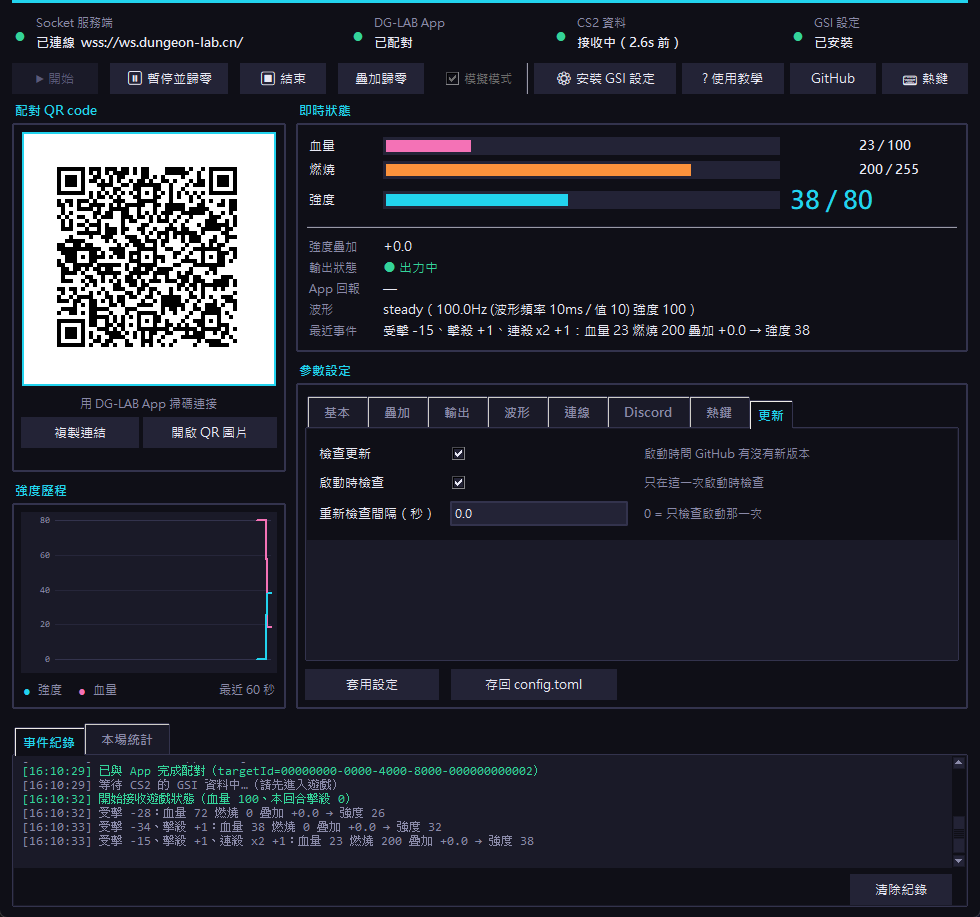
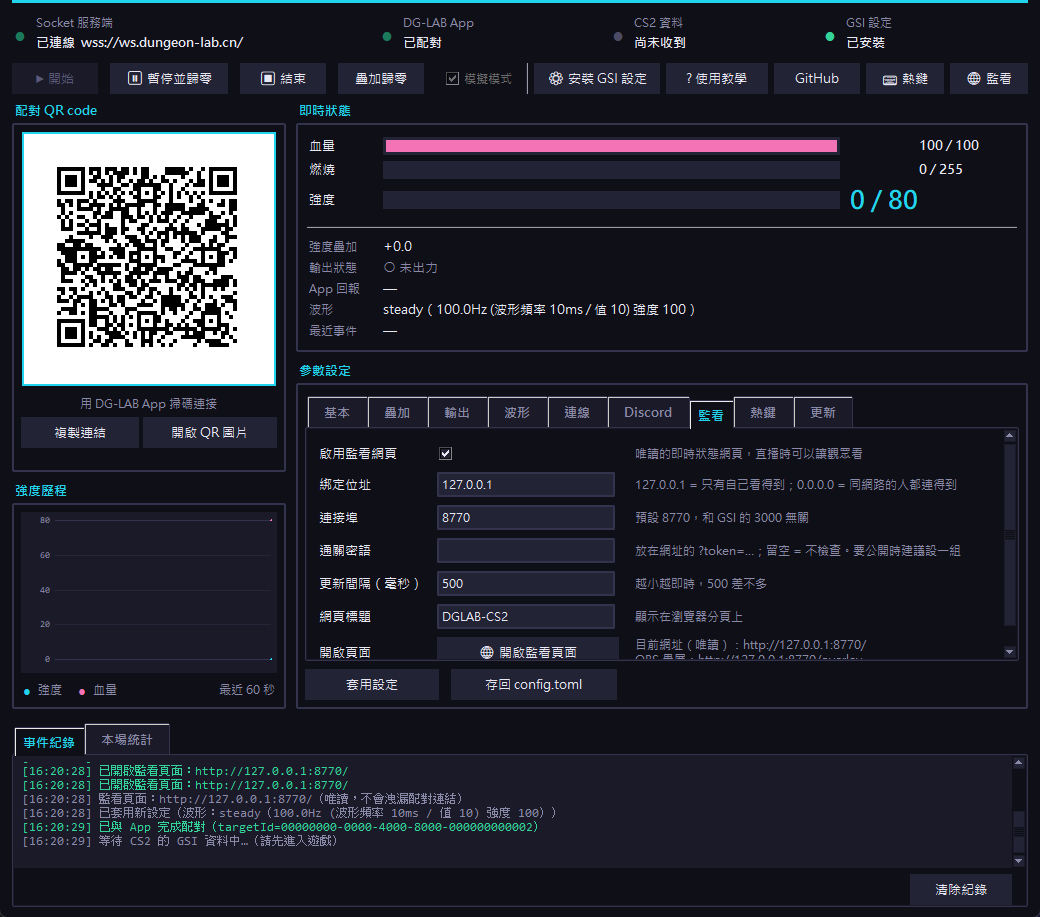
按鈕列加上「監看」，並讓它按下去就直接能用
- 主按鈕列多了「🌐 監看」（放在「⌨ 熱鍵」旁邊），不用特地去分頁找。
- 按下去如果還沒啟用，會問「要現在啟用嗎」，回答是就用目前表單上的設定
  套用並啟動，然後開瀏覽器 —— 不必先自己去別的地方勾選再回來按。
- 修正 apply_config 沒有重新啟動監看伺服器：restart_dashboard() 之前被
  插到 __init__（字串替換只換到第一個出現的位置），所以改了連接埠或密語
  按「套用設定」根本不會生效。

diff --git a/gui.py b/gui.py
@@ -1831,7 +1831,7 @@ class DglabApp:
 
         ttk.Separator(bar, orient="vertical").grid(row=0, column=5, sticky="ns", padx=6)
         ttk.Button(
-            bar, text="\u2699 安裝 GSI 設定", command=self._on_install_cfg, width=15
+            bar, text="\u2699 安裝 GSI 設定", command=self._on_install_cfg, width=13
         ).grid(row=0, column=6, padx=(0, 6))
         ttk.Button(
             bar, text="? 使用教學", command=self._show_tutorial, width=10
@@ -1843,12 +1843,15 @@ class DglabApp:
             width=8,
         ).grid(row=0, column=8)
         ttk.Button(
-            bar, text="\u2328 熱鍵", command=self._show_hotkey_tab, width=8
+            bar, text="\u2328 熱鍵", command=self._show_hotkey_tab, width=7
         ).grid(row=0, column=9, padx=(6, 0))
+        ttk.Button(
+            bar, text="\U0001f310 監看", command=self._open_dashboard, width=7
+        ).grid(row=0, column=10, padx=(6, 0))
 
         # 有新版本時才顯示（沒有就 grid_remove，完全不佔高度）
         self.update_banner = ttk.Frame(bar)
-        self.update_banner.grid(row=1, column=0, columnspan=10, sticky="ew", pady=(8, 0))
+        self.update_banner.grid(row=1, column=0, columnspan=11, sticky="ew", pady=(8, 0))
         self.update_banner.grid_remove()
 
     def _build_settings(self, parent: ttk.Frame) -> None:
@@ -2015,15 +2018,36 @@ class DglabApp:
         self.dashboard_hint.bind("<Configure>", self._autowrap_hint)
 
     def _open_dashboard(self) -> None:
-        """用瀏覽器打開監看頁面。"""
+        """用瀏覽器打開監看頁面。
+
+        還沒啟用的話會直接問「要不要現在開」，回答是就用目前表單上的設定
+        套用一次並啟動 —— 不必自己先去別的分頁勾選再回來按。
+        """
+        if not self.engine.dashboard_url:
+            wanted = self.vars.get("dashboard_enabled")
+            enabled = bool(wanted.get()) if isinstance(wanted, tk.BooleanVar) else False
+            if not enabled:
+                if not messagebox.askyesno(
+                    "啟用監看網頁",
+                    "監看網頁還沒啟用。\n\n"
+                    "要現在用「監看」分頁目前的設定啟用嗎？\n"
+                    "（唯讀頁面，不會洩漏配對連結）",
+                    parent=self.root,
+                ):
+                    return
+                if isinstance(wanted, tk.BooleanVar):
+                    wanted.set(True)
+            # 不論是「剛勾的」還是「勾了但還沒套用」，都先套用一次
+            self._on_apply()
+
         url = self.engine.dashboard_url
         if not url:
-            messagebox.showwarning(
-                "監看頁面沒有啟動",
-                "請先在這個分頁勾選「啟用監看網頁」，\n"
-                "按「套用設定」之後再試一次。\n\n"
-                "（如果剛剛按過套用還是一樣，看一下事件紀錄，"
-                "通常是連接埠被其他程式佔用了。）",
+            messagebox.showerror(
+                "監看頁面啟動失敗",
+                "設定已經套用，但伺服器起不來。\n\n"
+                "最常見的原因是連接埠被其他程式佔用"
+                f"（目前是 {self.vars['dashboard_port'].get()}），\n"
+                "改成別的號碼再試一次。事件紀錄裡有詳細原因。",
                 parent=self.root,
             )
             return

diff --git a/engine.py b/engine.py
@@ -373,6 +373,8 @@ class ControlEngine:
         self._presence.configure(config.discord)
         if self._writer is not None:
             self._writer.apply_config(config)
+        # 監看頁面的設定（開關、埠、密語）改了要重新套用
+        self.restart_dashboard()
         frames = config.dglab.wave.build_frames()
         client = self._client
         if client is not None:
